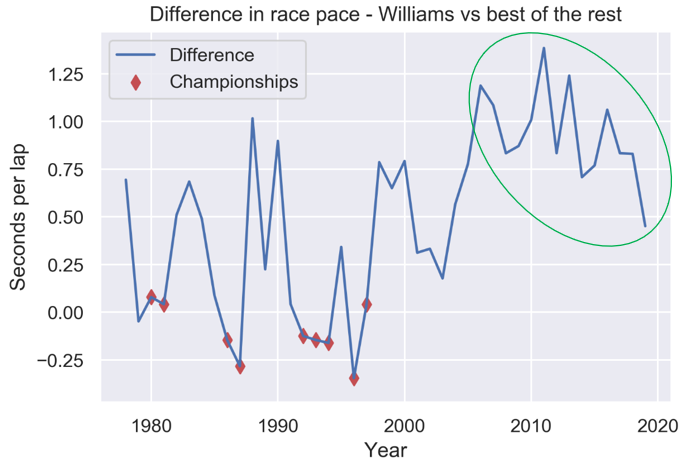
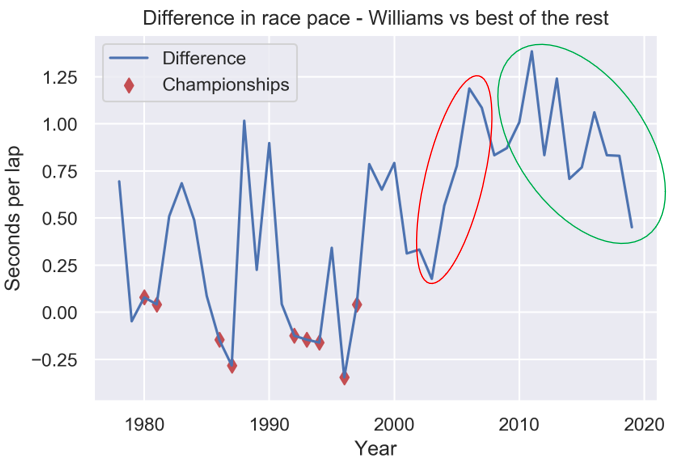
v0.4.2

diff --git a/README.md b/README.md
@@ -20,16 +20,20 @@ To start with an analysis, the obvious part is to check how good they were perfo
 
 ![Alt text](/Data/PointsDifference.PNG?raw=true "Points difference across F1 seasons")
 
+Above figure which shows us championship points difference between Williams and the best of the rest, also shows us undergoing crysis in Williams that started from the 2009 season (marked in red). 
+Team managed to improve competitiveness by a little on seasons 2012 and 2014, however overall decreasing tendency resulted in just 1 points at the end of 2019 season, worst in their history.
+Conclusion is clear in case of pure points gained in races, nevertheless to trully decide if it was their worst season we have to dive deeper into car performance data.
+
+![Alt text](/Data/PaceDifference.PNG?raw=true "Average pace difference across F1 seasons")
+
+Presented figure shows us difference in average lap time between Williams and the best of other competitors indicated in seconds per lap. 
+Interesting aspect is that Williams had little bit worse average pace than any other team in seasons 1980, 1981, and 1997 and still managed to win world championship.
+The most interesting part for us is 
+
+![Alt text](/Data/BestLapDifference.PNG?raw=true "Best lap time difference across F1 seasons")
+
 ---------------------------- TBA
 
-![Alt text](/Data/PaceDifference.PNG?raw=true "Points difference across F1 seasons")
-
----------------------------- TBA
-
-![Alt text](/Data/BestLapDifference.PNG?raw=true "Points difference across F1 seasons")
-
----------------------------- TBA
-
-![Alt text](/Data/TopSpeedDifference.PNG?raw=true "Points difference across F1 seasons")
+![Alt text](/Data/TopSpeedDifference.PNG?raw=true "Top speed difference across F1 seasons")
 
 ---------------------------- TBA
